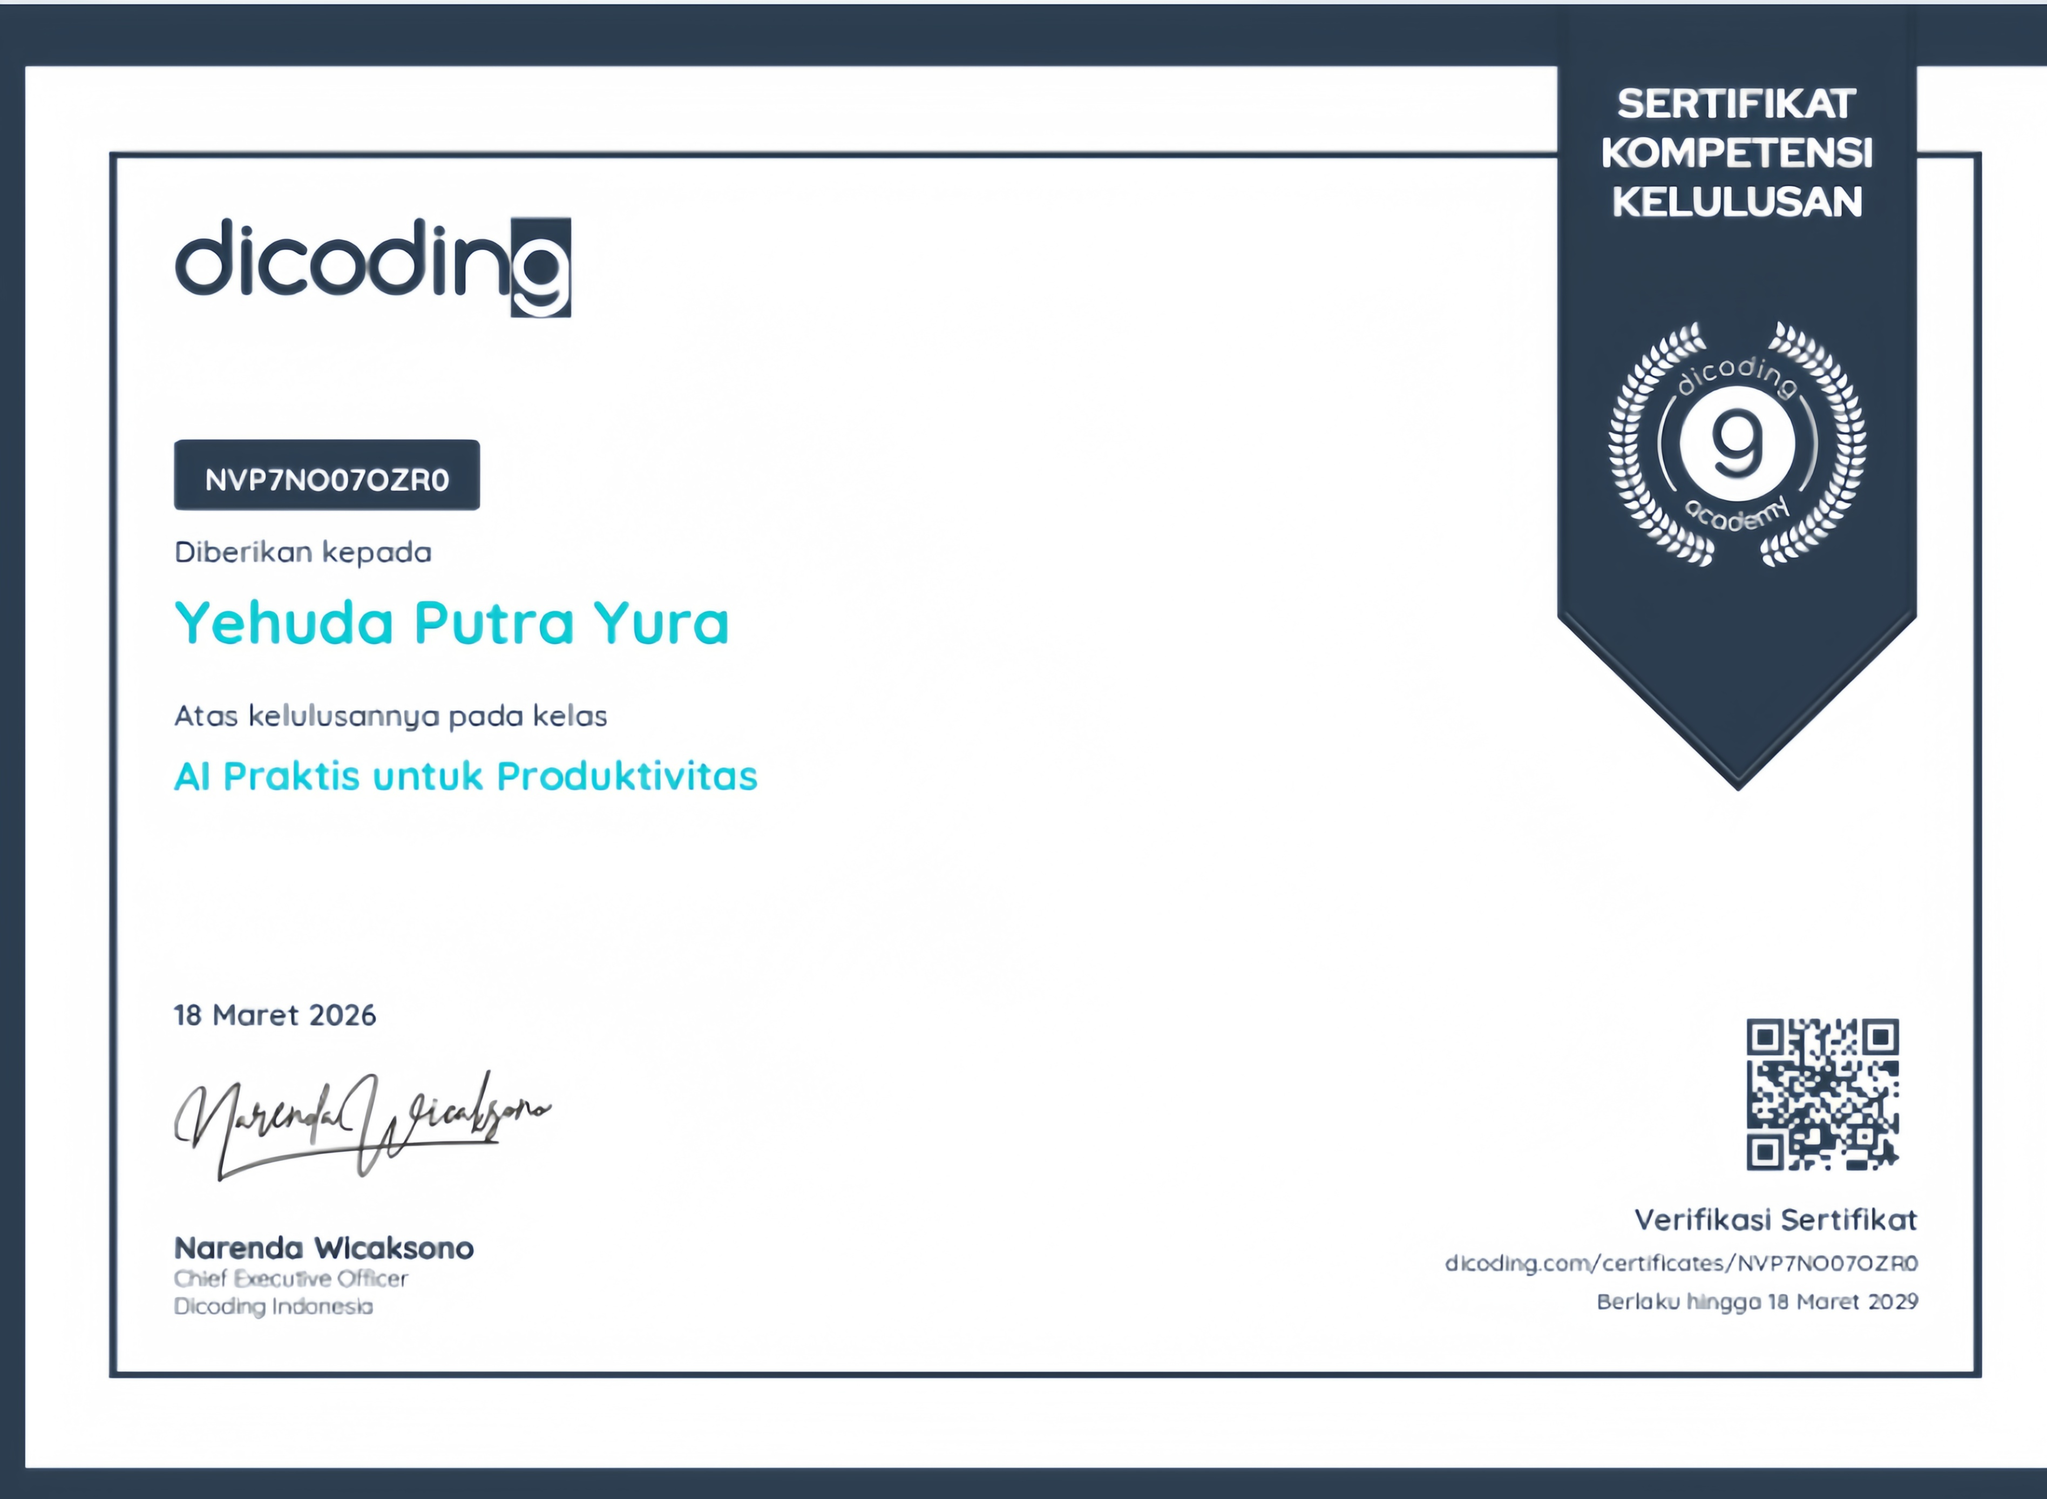
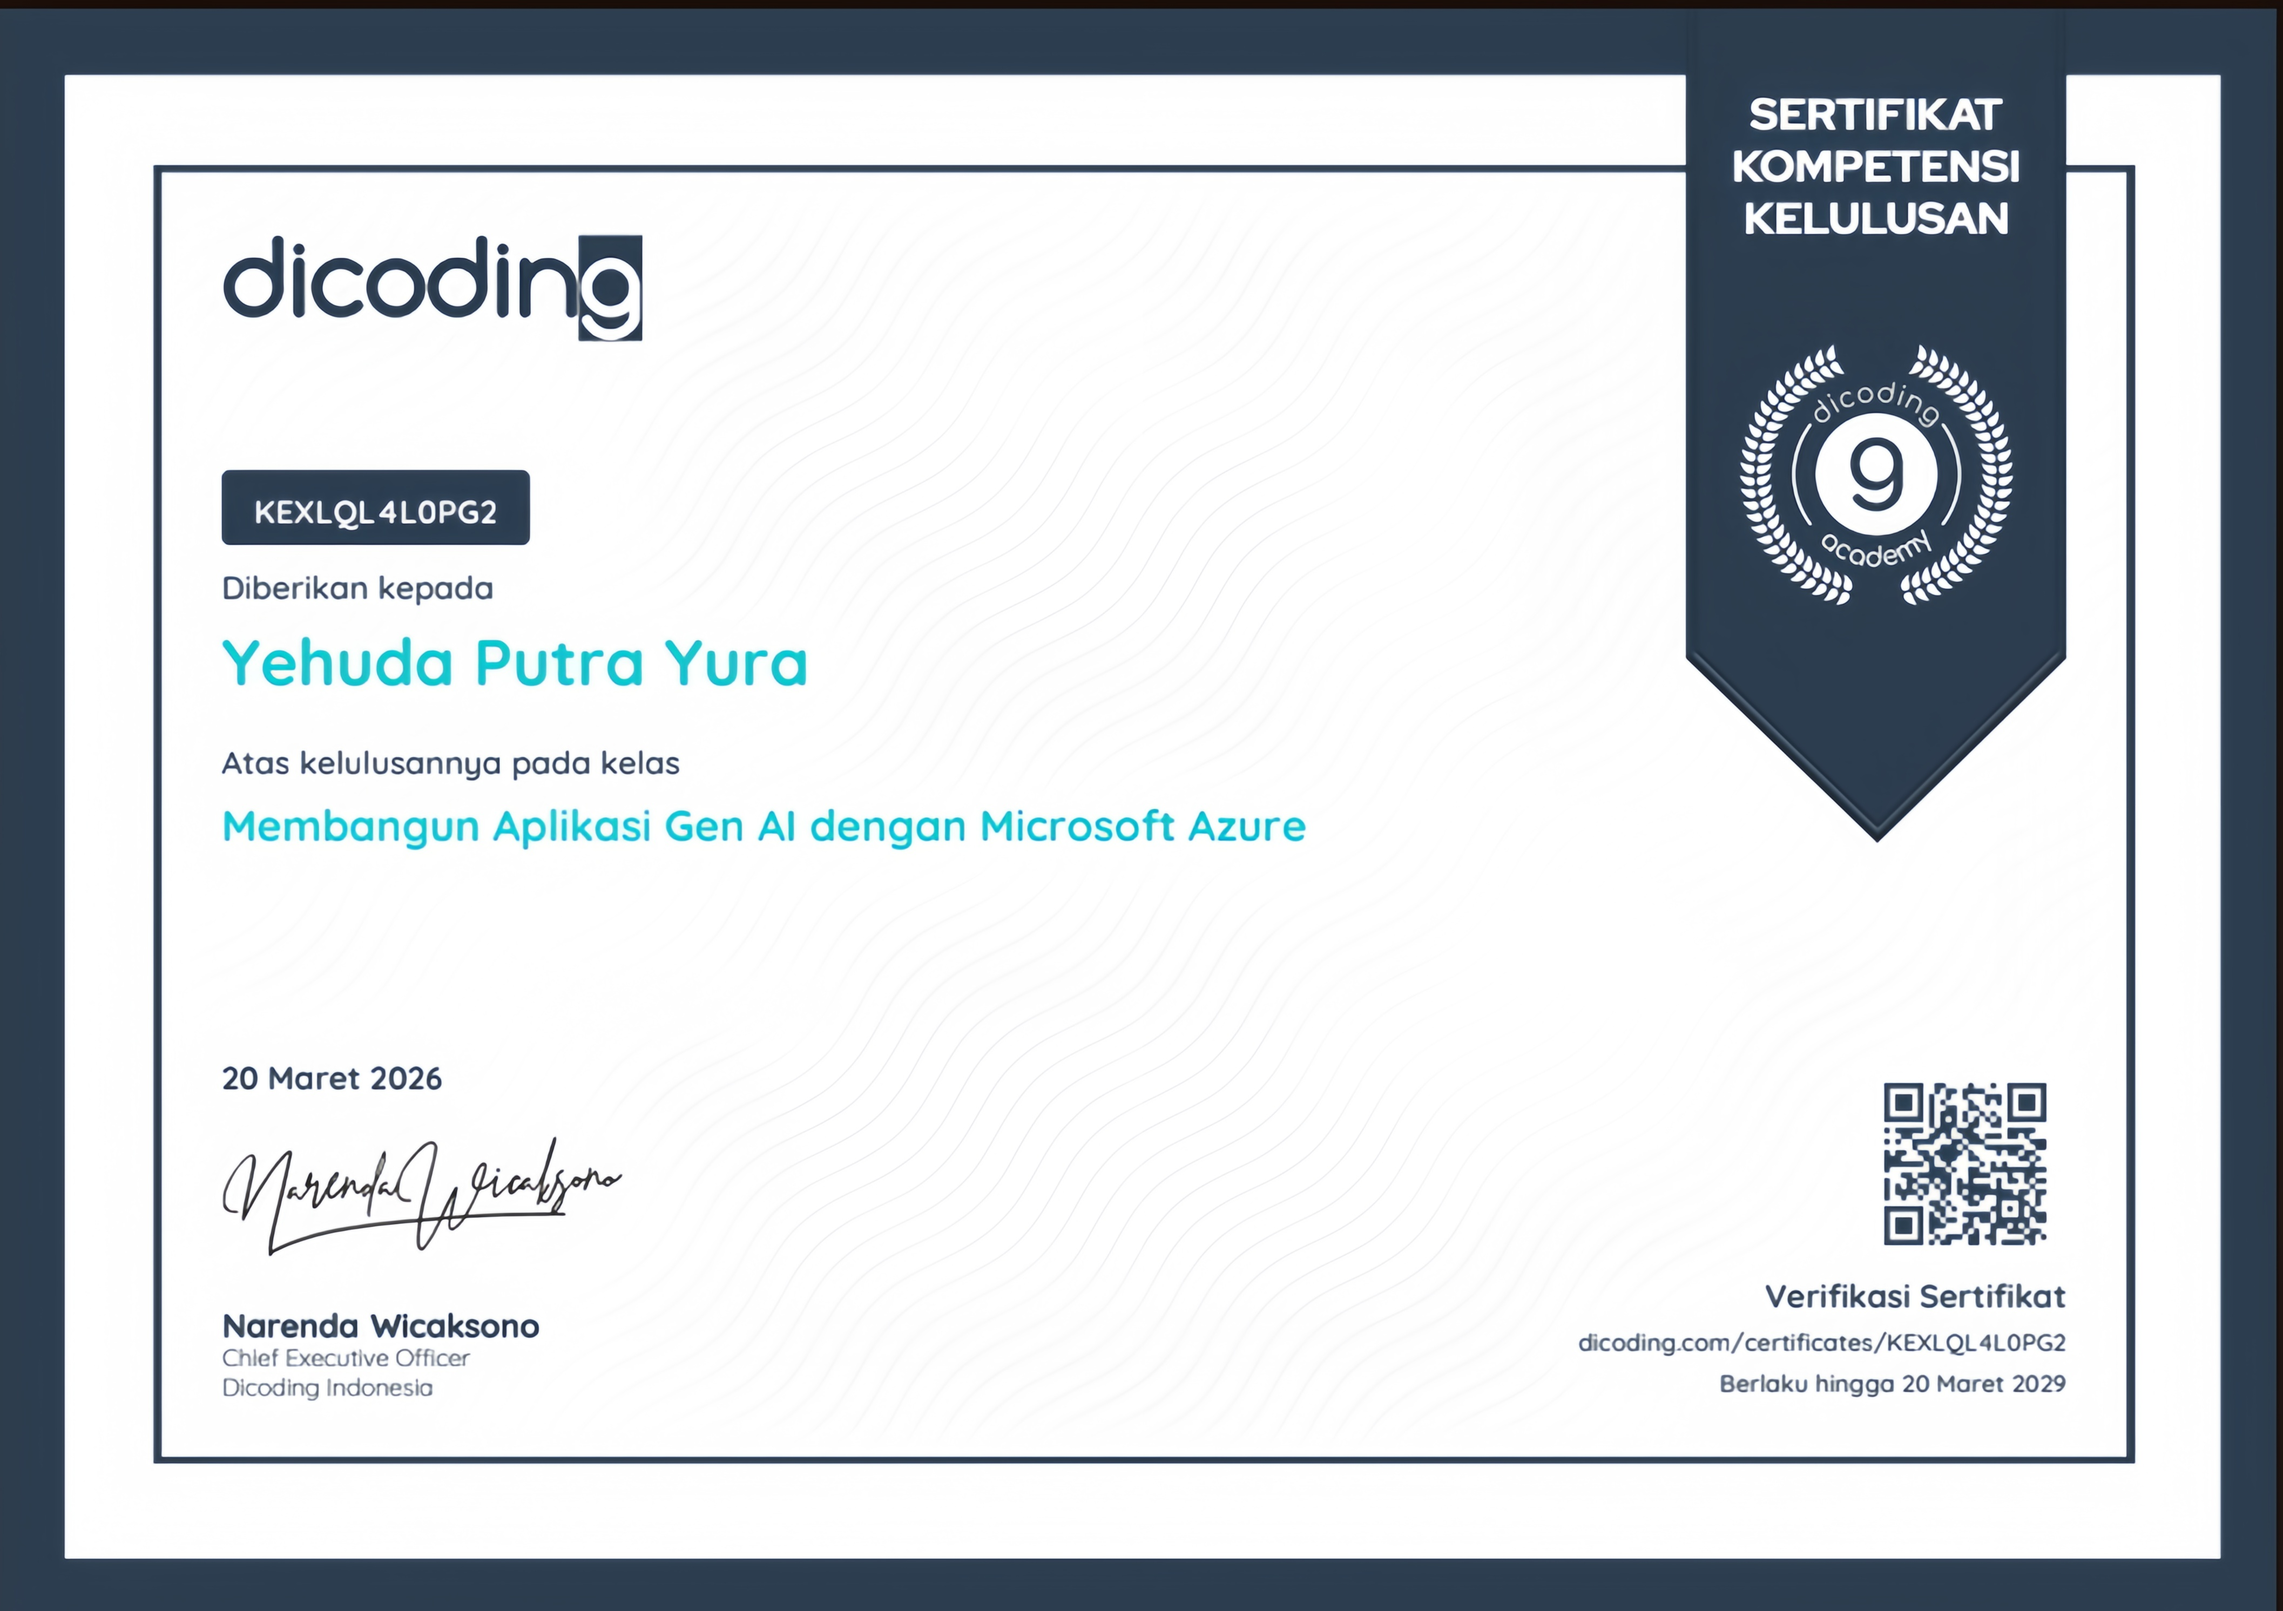
update certificate gen ai azure

Changed region(s): [[0.0, 0.0, 1.0, 1.0]]

diff --git a/data/certificates.ts b/data/certificates.ts
@@ -2,8 +2,8 @@ export default [
 
     {
       image: "/certificates/cert9.jpg",
-      title: "AI Praktis untuk Produktivitas – Dicoding 2026 | Yehuda Putra Yura",
-      desc: "Berhasil menyelesaikan pelatihan AI Praktis untuk Produktivitas, dengan kompetensi dalam penerapan AI untuk otomatisasi workflow, peningkatan efisiensi kerja, dan optimalisasi penggunaan tools berbasis kecerdasan buatan."
+      title: "Pengembangan Aplikasi Generative AI dengan Microsoft Azure – Dicoding 2026 | Yehuda Putra Yura",
+      desc: "Berhasil menyelesaikan pelatihan Membangun Aplikasi Generative AI dengan Microsoft Azure."
     },
     {
       image: "/certificates/cert8.png",
@@ -33,7 +33,7 @@ export default [
     {
       image: "/certificates/cert7.png",
       title: "Dinas Komunikasi dan Informatika Kota Manado – Yehuda Yura",
-      desc: "Magang di Dinas Kominfo Manado selama 3 bulan (Maret–Mei 2022) sebagai staf IT, membantu instalasi dan pemeliharaan sistem."
+      desc: "Magang di Dinas Kominfo Manado selama 3 bulan (Maret–Mei 2022) sebagai staf IT, membantu instalasi sistem."
     },
 
     {
